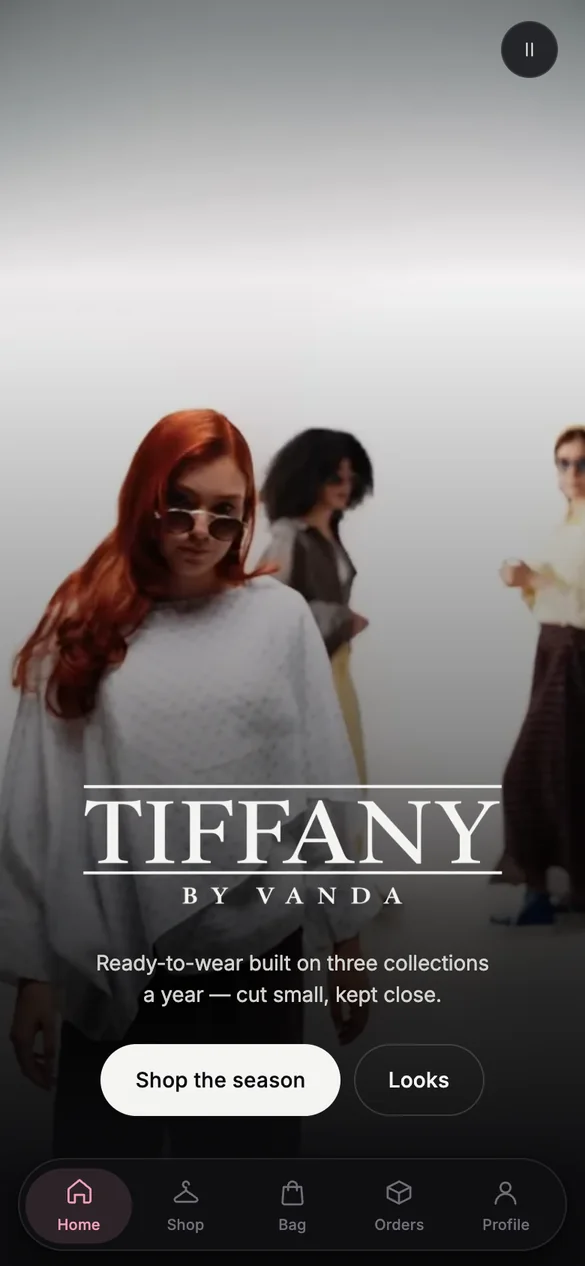
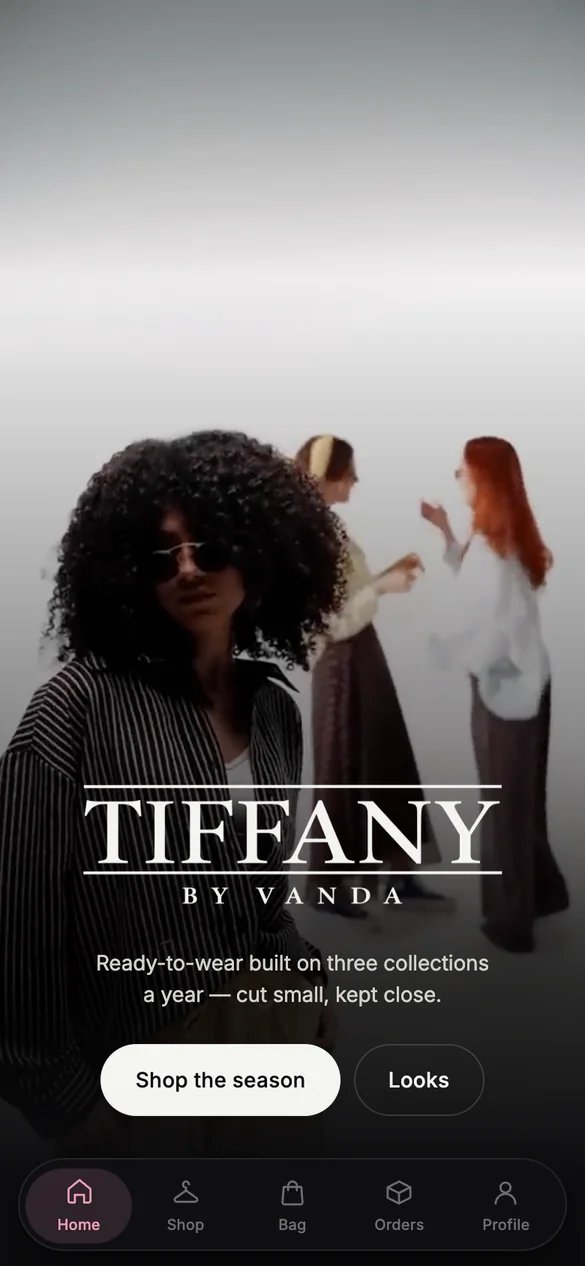
Let the campaign film show, and take the control off it
The hero has been a still since the first commit. The poster <img> was the
only positioned layer in .hero-media, so it painted above the static
<video> underneath it — the film loaded, autoplayed and looped the whole
time, behind a photograph of itself. Both layers are absolute now, and DOM
order does the stacking: poster first, film over it, fading in on its own
'playing' event.

With the footage actually moving, ink type could no longer trust what was
behind it, so the light scrim now mirrors the dark one — the middle of the
frame stays clear and the lower third resolves to near-paper, which is
where the wordmark and the lede sit.

The play/pause button is gone, along with its two icons. The film runs by
itself, still pausing off-screen and on tab-hide, still standing down to
the poster under prefers-reduced-motion.

Three checks added so this cannot come back: the film is running, the film
is the element under the middle of the hero, and nothing floats over it.
70 pass. Service worker to v2 — returning visitors are holding the old
stylesheet and only the version evicts it.

Changed region(s): [[0.0, 0.3081, 1.0, 0.8318], [0.8615, 0.0, 0.9538, 0.0616]]

diff --git a/css/app.css b/css/app.css
@@ -306,17 +306,24 @@ h3.serif { font-size: 22px; line-height: 1.2; }
   display: flex; align-items: flex-end;
 }
 .hero-media { position: absolute; inset: 0; }
+/* Both layers are positioned. A static video under an absolute poster paints
+   BEHIND it — the film plays and nobody ever sees it. DOM order decides
+   instead: poster first, video over it, fading in once it is actually running. */
 .hero-media img, .hero-media video {
+  position: absolute; inset: 0;
   width: 100%; height: 100%; object-fit: cover;
 }
 .hero-media video { opacity: 0; transition: opacity .9s var(--ease); }
 .hero-media video.ready { opacity: 1; }
-.hero-media img { position: absolute; inset: 0; }
 .hero::after {
   content: ''; position: absolute; inset: 0; pointer-events: none;
+  /* The film moves, so the type cannot rely on what is behind it. The middle
+     of the frame stays clear; the lower third is scrimmed to near-paper so ink
+     reads over a light garment and a dark one alike. */
   background: linear-gradient(to bottom,
-    rgba(255, 255, 255, .55) 0%, rgba(255, 255, 255, 0) 26%,
-    rgba(255, 255, 255, 0) 44%, var(--paper) 96%);
+    rgba(255, 255, 255, .5) 0%, rgba(255, 255, 255, 0) 22%,
+    rgba(255, 255, 255, .42) 58%, rgba(255, 255, 255, .86) 78%,
+    var(--paper) 94%);
 }
 @media (prefers-color-scheme: dark) {
   html[data-theme='auto'] .hero::after {
@@ -352,15 +359,6 @@ html[data-theme='dark'] .hero::after {
 .hero-cta { display: flex; gap: 9px; justify-content: center;
   animation: rise .9s var(--ease) .32s both; }
 @keyframes rise { from { opacity: 0; transform: translateY(16px); } }
-
-.hero-sound {
-  position: absolute; z-index: 3; right: var(--gap); top: calc(var(--st) + 14px);
-  width: 38px; height: 38px; border-radius: 999px;
-  display: grid; place-items: center;
-  background: var(--glass-2); border: 1px solid var(--line-soft);
-  backdrop-filter: blur(18px) saturate(180%);
-  -webkit-backdrop-filter: blur(18px) saturate(180%);
-}
 
 /* ------------------------------------------------------------ buttons */
 .btn {

diff --git a/js/hero.js b/js/hero.js
@@ -5,24 +5,17 @@
    nothing looks broken. The clip is paused whenever it scrolls out of view or
    the tab is hidden, because a looping video behind five screens of content is
    pure battery. */
-import { icon } from './icons.js';
-
 export function mountHero(root, signal) {
   const hero = root.querySelector('.hero');
   const vid = root.querySelector('.hero video');
   if (!hero || !vid) return;
 
-  const reduce = matchMedia('(prefers-reduced-motion: reduce)');
-  const btn = root.querySelector('.hero-sound');
-
-  if (reduce.matches) {
+  if (matchMedia('(prefers-reduced-motion: reduce)').matches) {
     vid.remove();
-    if (btn) btn.hidden = true;
     return;
   }
 
-  let wanted = true;
-  const tryPlay = () => { if (wanted) vid.play().catch(() => { /* poster carries it */ }); };
+  const tryPlay = () => vid.play().catch(() => { /* the poster carries it */ });
   vid.addEventListener('playing', () => vid.classList.add('ready'), { once: true });
   tryPlay();
 
@@ -38,15 +31,6 @@ export function mountHero(root, signal) {
   const kick = () => tryPlay();
   document.addEventListener('touchstart', kick, { once: true, passive: true, signal });
   document.addEventListener('click', kick, { once: true, signal });
-
-  btn?.addEventListener('click', (e) => {
-    e.stopPropagation();
-    wanted = !wanted;
-    if (wanted) { tryPlay(); } else { vid.pause(); }
-    btn.innerHTML = icon(wanted ? 'pause' : 'play', 16);
-    btn.setAttribute('aria-label', wanted ? 'Pause the film' : 'Play the film');
-    btn.setAttribute('aria-pressed', String(!wanted));
-  }, { signal });
 
   signal?.addEventListener('abort', () => { io.disconnect(); vid.pause(); });
 }

diff --git a/js/icons.js b/js/icons.js
@@ -34,8 +34,6 @@ const P = {
   card: '<rect x="3" y="6" width="18" height="12" rx="2.4"/><path d="M3 10.4h18"/>',
   pin: '<path d="M12 21s6.6-6 6.6-10.6a6.6 6.6 0 1 0-13.2 0C5.4 15 12 21 12 21z"/>'
     + '<circle cx="12" cy="10.2" r="2.4"/>',
-  play: '<path d="M8.4 5.6 19 12 8.4 18.4z"/>',
-  pause: '<path d="M9.4 5.6v12.8M14.6 5.6v12.8"/>',
   sparkle: '<path d="M12 3.6 13.9 9 19.4 11 13.9 13 12 18.4 10.1 13 4.6 11 10.1 9z"/>',
   arrow: '<path d="M4.6 12h14M13.6 7l5 5-5 5"/>',
   download: '<path d="M12 4v11M7.6 10.6 12 15l4.4-4.4"/><path d="M4.6 19.4h14.8"/>',

diff --git a/js/views/home.js b/js/views/home.js
@@ -12,8 +12,6 @@ const hero = () => `
     <video src="media/hero.mp4" poster="media/hero-poster.webp" muted playsinline
            loop preload="metadata" aria-label="Campaign film"></video>
   </div>
-  <button class="hero-sound" type="button" aria-label="Pause the film"
-          aria-pressed="false">${icon('pause', 16)}</button>
   <div class="hero-body">
     <h1 class="hero-mark" aria-label="${BRAND.name} ${BRAND.sub}"></h1>
     <p class="hero-lede">${BRAND.lede}</p>

diff --git a/sw.js b/sw.js
@@ -4,7 +4,7 @@
    Photographs and the campaign clip are cached as they are first seen, so a
    second visit on a bad connection opens instantly without paying 1.4MB of
    video up front. */
-const V = 'tiffany-v1';
+const V = 'tiffany-v2';
 const SHELL = [
   './', 'index.html', 'css/app.css', 'manifest.webmanifest',
   'js/app.js', 'js/colour.js', 'js/config.js', 'js/data.js', 'js/hero.js',

diff --git a/e2e.py b/e2e.py
@@ -76,6 +76,15 @@ def run(shots_only=False):
         check('boot veil lifted', page.locator('#boot').count() == 0)
         check('wordmark drawn', page.locator('.hero-mark').is_visible())
         check('campaign film present', page.locator('.hero video').count() == 1)
+        check('the film is running', page.evaluate(
+            "(()=>{const v=document.querySelector('.hero video');"
+            "return !v.paused && v.currentTime > 0})()"))
+        # the poster used to be the only positioned layer, so it painted over a
+        # playing video and the hero was a still. never again.
+        check('the film paints over its poster', page.evaluate(
+            "(()=>{const e=document.elementFromPoint(195,300);return e&&e.tagName})()")
+            == 'VIDEO')
+        check('nothing floats over the film', page.locator('.hero-sound').count() == 0)
         check('three collections', page.locator('.ccard').count() == 3)
         check('new-in rail filled', page.locator('.rail-p .card').count() >= 6)
         check('six looks', page.locator('.look-tile').count() == 6)
